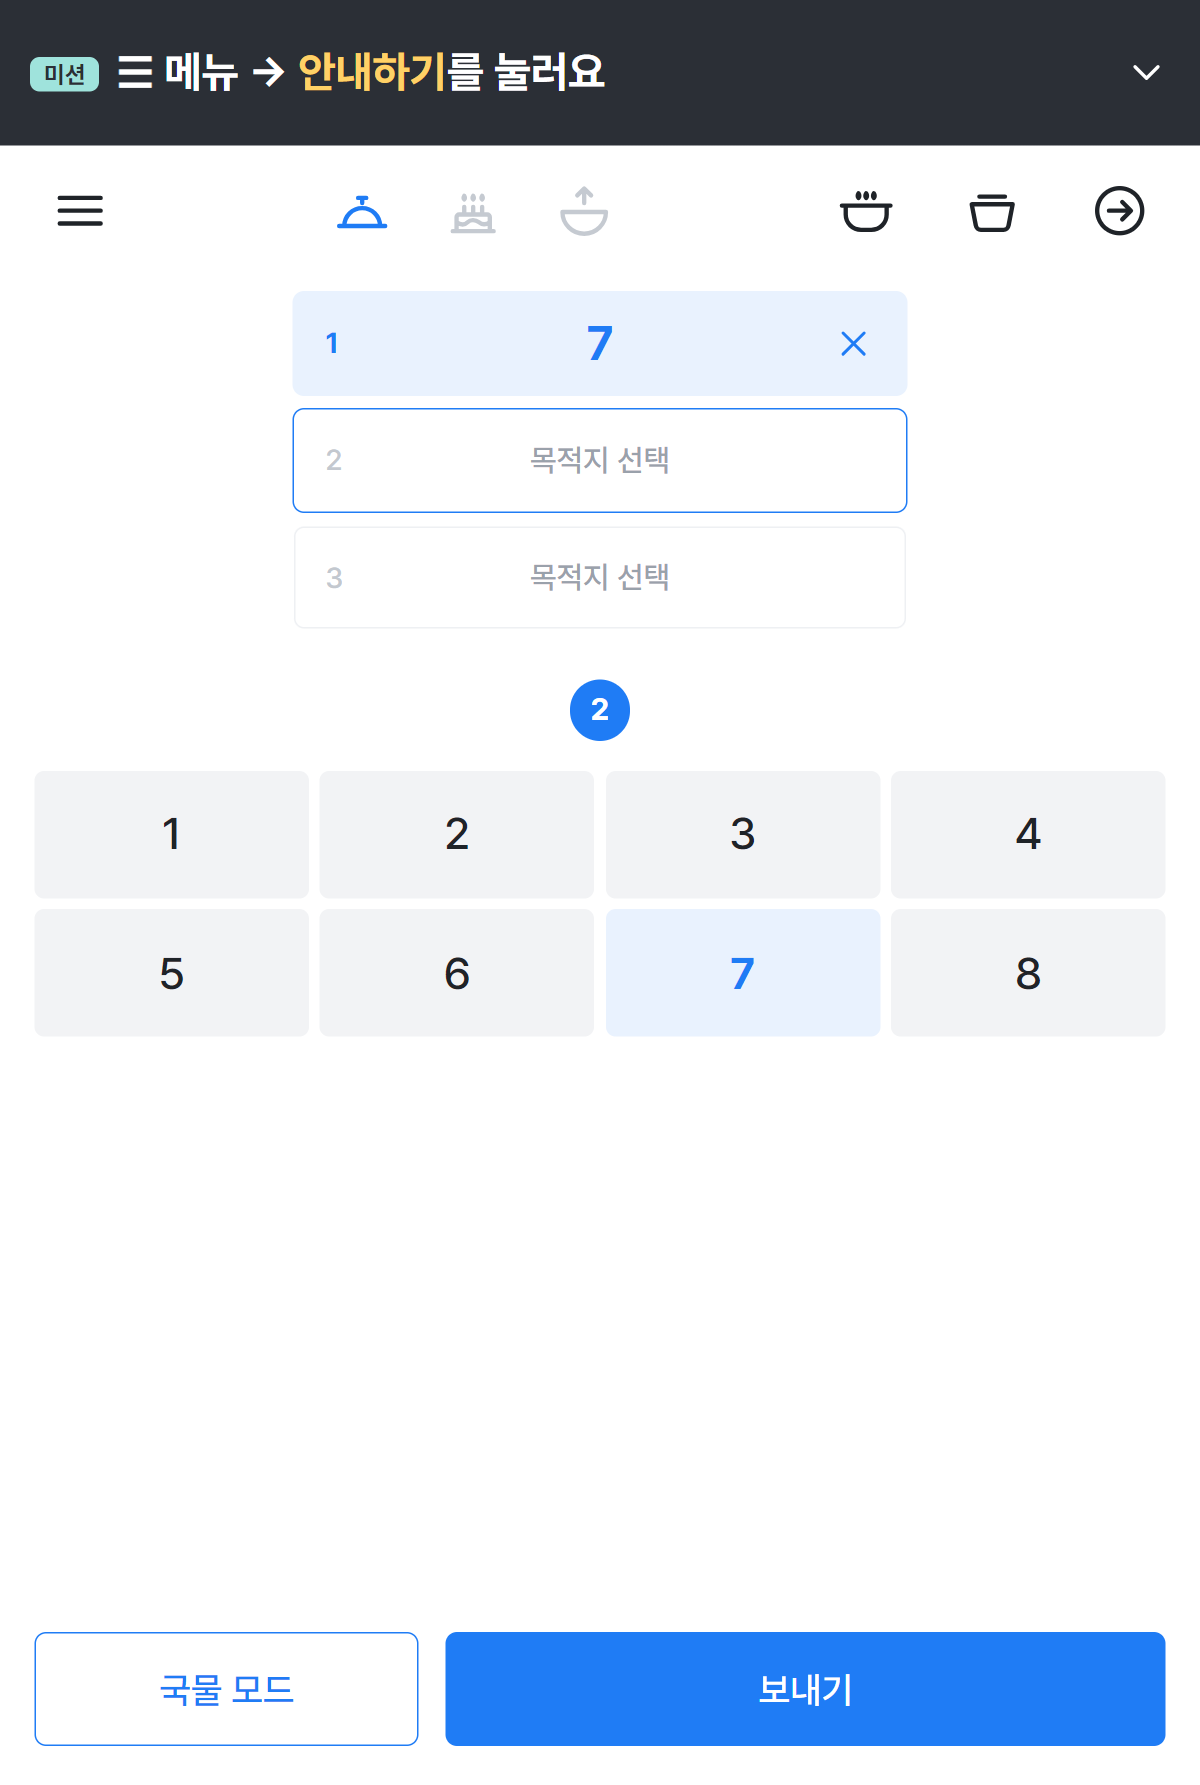
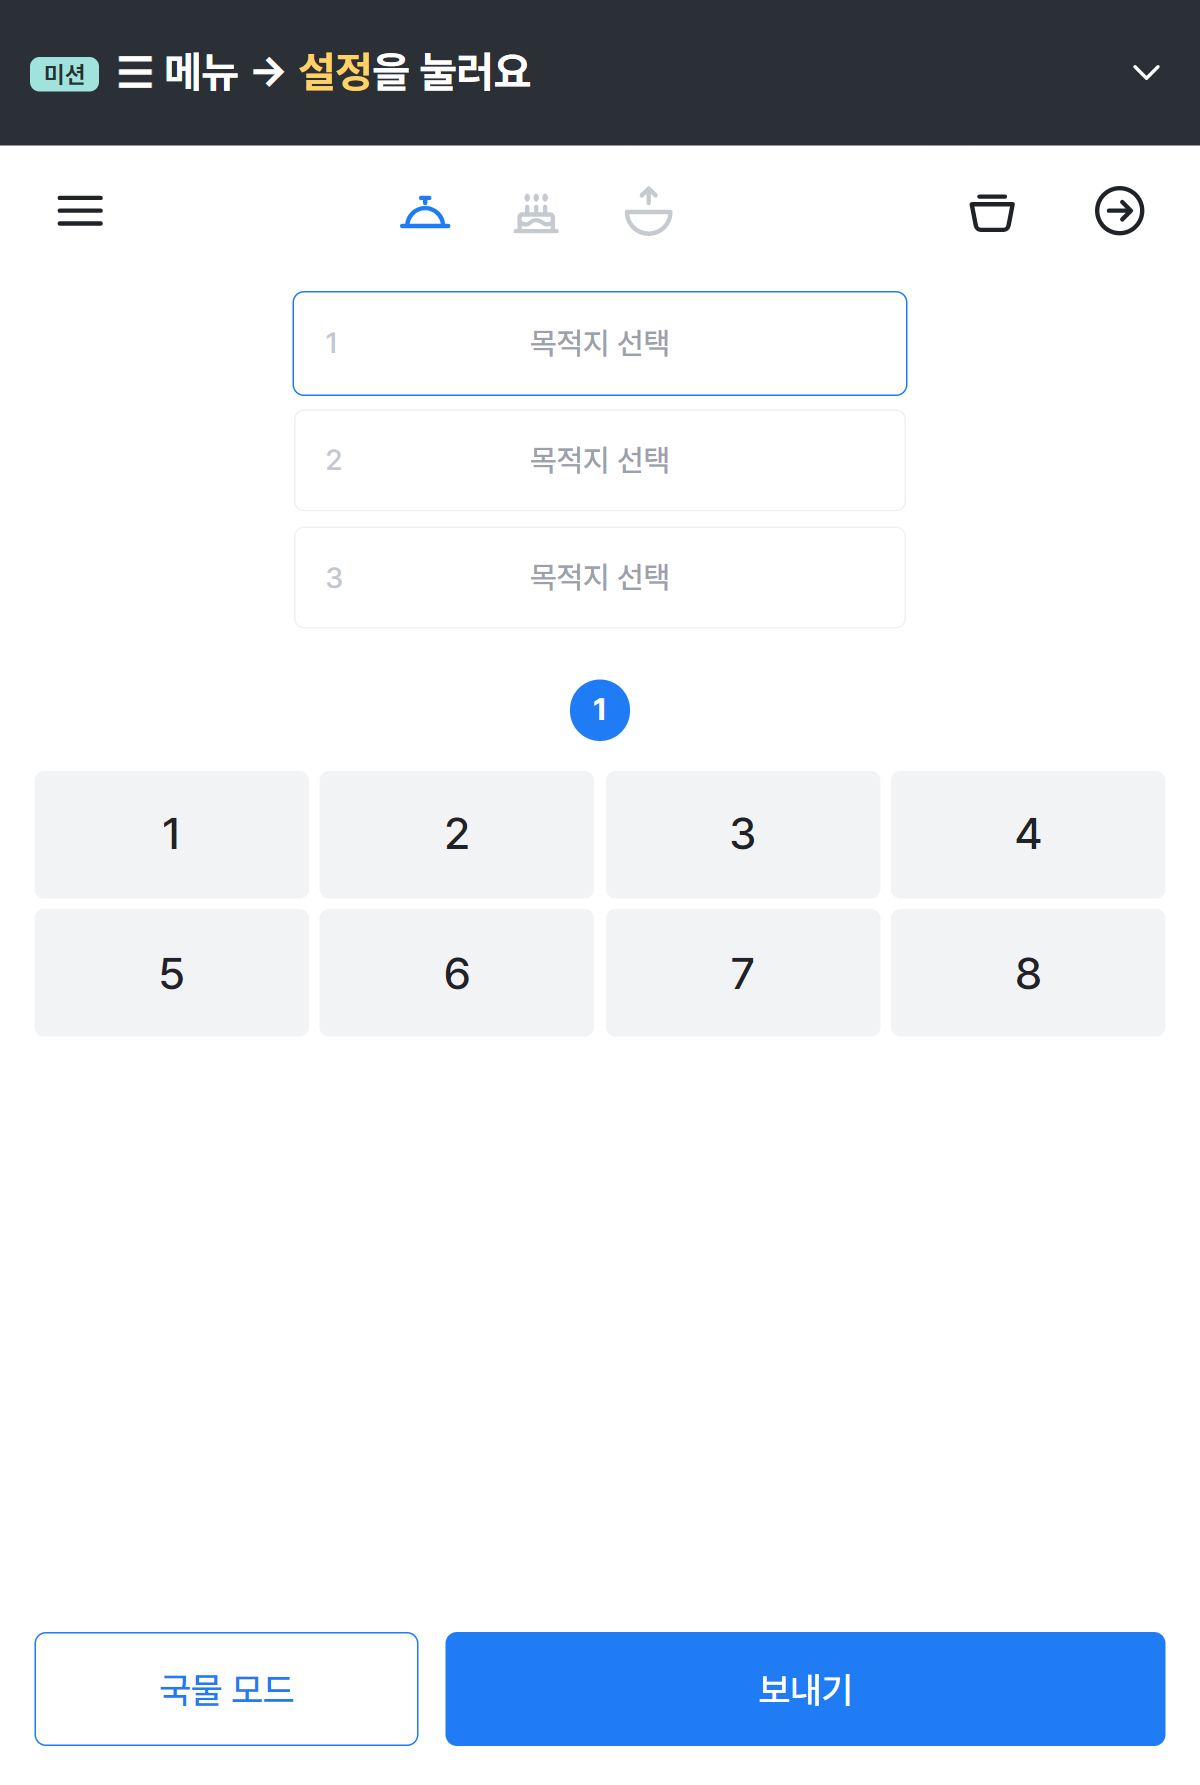
퇴식 단계에 도착 줄 추가 · 슬라이드 6장 태블릿 역할(부모님 미션 / 자녀 조종)

diff --git a/slides/index.html b/slides/index.html
@@ -84,6 +84,13 @@
   .team span { font-size:76px; line-height:1; }
   .team b { font-family:'Hanna','Gowun Dodum',sans-serif; font-weight:normal; font-size:26px; }
   .team i { font-style:normal; font-family:'Hanna','Gowun Dodum',sans-serif; font-size:44px; color:var(--orange); margin-bottom:30px; }
+  .roles { display:flex; align-items:stretch; justify-content:center; gap:14px; margin-top:18px; }
+  .roles > div { display:flex; flex-direction:column; align-items:center; gap:4px; background:#F6F1E7; border-radius:18px; padding:14px 20px; min-width:250px; }
+  .roles > div > span { font-size:46px; line-height:1; }
+  .roles > div > b { font-family:'Hanna','Gowun Dodum',sans-serif; font-weight:normal; font-size:30px; }
+  .roles small { font-size:21px; color:var(--ink-soft); }
+  .roles small b { color:var(--ink); }
+  .roles em { align-self:center; font-style:normal; color:var(--mint-deep); font-weight:800; font-size:34px; }
   .flowchips { display:flex; align-items:center; justify-content:center; gap:10px; margin-top:16px; }
   .flowchips span { font-family:'Hanna','Gowun Dodum',sans-serif; font-size:25px; background:#F6F1E7; border-radius:14px; padding:8px 14px; white-space:nowrap; }
   .flowchips em { font-style:normal; color:var(--mint-deep); font-weight:800; font-size:24px; }
@@ -215,12 +222,12 @@
 </section>
 
 <!-- 5. 오늘의 미션: 한 가족 = 한 테이블, 미션 보고 따라 하기 -->
-<section class="slide" data-note="<b>오늘의 미션 한 줄 요약:</b> “<b>한 가족이 한 테이블을 맡아서</b>, 로봇 1대로 손님 한 팀을 끝까지 모셔요!” 강사님이 태블릿마다 가족 번호를 정해 주면 담당 테이블이 정해지고, 번호는 앱이 알아서 넣어 줘요. 어떻게 하는지 외울 필요 없어요 → <b>앱 맨 위 빨간 네모 칸(미션)을 보고 그대로 따라 하면 돼요.</b> 해내면 「띵」 하고 다음 미션이 나와요. 막히면 미션 칸을 눌러 전체 순서를 봐요. 자세한 4단계는 다음 장에서!">
+<section class="slide" data-note="<b>오늘의 미션 한 줄 요약:</b> “<b>한 가족이 한 테이블을 맡아서</b>, 로봇 1대로 우리 테이블 손님을 모셔요!” <b>태블릿은 가족마다 2대</b>예요. <b>부모님</b>은 서빙로봇 앱 화면의 미션을 읽어 주고, <b>자녀</b>는 카미봇리모콘으로 로봇을 조종해요. 강사님이 태블릿마다 가족 번호를 정해 주면 담당 테이블이 정해지고, 번호는 앱이 알아서 넣어 줘요. 어떻게 하는지 외울 필요 없어요 → <b>앱 맨 위 빨간 네모 칸(미션)을 보고 그대로 따라 하면 돼요.</b> 해내면 「띵」 하고 다음 미션이 나와요. 막히면 미션 칸을 눌러 전체 순서를 봐요. 자세한 4단계는 다음 장에서!">
   <img class="bg" src="PPT배경템플릿_6종/07_좌우큰칸형.png" alt="">
   <div class="abs" style="left:4%; top:5%; width:90%; display:flex; align-items:center; gap:18px;">
     <span class="tag orange in">오늘의 미션</span><div class="h2 split in">미션을 보고, 따라 해요! 📱</div>
   </div>
-  <div class="abs in" style="left:7%; top:20%; width:24%;"><div class="phone"><img style="height:auto;" src="앱_화면/1_서빙화면_미션띠.png" alt="서빙 화면"><span class="redbox f" data-f="2"></span></div></div>
+  <div class="abs in" style="left:7%; top:20%; width:24%;"><div class="phone"><img style="height:auto;" src="앱_화면/1_서빙화면_미션띠.png?v=1024" alt="서빙 화면"><span class="redbox f" data-f="2"></span></div></div>
   <div class="abs f" data-f="2" style="left:31.6%; top:21.2%;"><span class="mission-call">◀ 미션!</span></div>
   <div class="abs f" data-f="3" style="left:31.8%; top:31%; width:13%; font-size:21px; line-height:1.5; color:var(--ink-soft);">여기에 지금 할 일이<br><b style="color:#E53935;">한 줄씩</b> 나와요</div>
   <div class="abs center" style="left:48%; top:20%; width:47.6%; height:62%; display:flex; flex-direction:column; align-items:center; justify-content:center; gap:22px;">
@@ -231,12 +238,11 @@
         <div><span>🍽</span><b>테이블 1개</b></div>
       </div>
       <div class="h2" style="font-size:44px; margin-top:14px;">한 가족이 <span class="accent">한 테이블</span>을 맡아요</div>
-      <div class="lead" style="font-size:25px; margin-top:4px;">손님 한 팀을 로봇으로 끝까지 모셔요</div>
     </div>
     <div class="f" data-f="2" style="width:92%; border-top:3px dashed #EFE3CC;"></div>
     <div class="f" data-f="3">
       <div class="h2" style="font-size:44px;"><span style="color:#E53935;">미션</span>을 보고 → <span class="mint">따라 하기!</span></div>
-      <div class="flowchips"><span>👀 미션 읽기</span><em>→</em><span>🤖 로봇 움직이기</span><em>→</em><span>✅ 띵! 다음 미션</span></div>
+      <div class="roles"><div><span>👩🦰📱</span><b>부모님 태블릿</b><small>서빙로봇 앱 · <b>미션을 읽어 줘요</b></small></div><em>→</em><div><span>🧒🎮</span><b>자녀 태블릿</b><small>카미봇리모콘 · <b>로봇을 조종해요</b></small></div></div>
     </div>
   </div>
 </section>

diff --git a/index.html b/index.html
@@ -1736,8 +1736,10 @@ function bizLines(id, P){
     {t:'☰ 메뉴 → <b>서빙하기</b>를 눌러요', ok:()=>current==='home'||ct()},
     {t:'위쪽 <b>🥣 그릇 회수</b> 아이콘을 눌러요', ok:()=>kind==='collect'||ct()},
     {t:`「<b>보내기</b>」 → <b>${T}번 테이블</b>로 이동`, ok:()=>ct()},
-    {t:'테이블에서 그릇을 싣고 「<b>로봇 보내기</b>」', ok:()=>ct() && (trip.i>=1||ret())},
-    {t:'식기 반납대에서 그릇을 내리고 「<b>로봇 보내기</b>」', ok:()=>ct() && ret()},
+    {t:`${T}번 테이블에 닿으면 「<b>도착했어요</b>」`, ok:()=>ct() && (current==='arrive'||trip.i>=1||ret())},
+    {t:'그릇을 싣고 「<b>로봇 보내기</b>」 → 식기 반납대로 이동', ok:()=>ct() && (trip.i>=1||ret())},
+    {t:'식기 반납대에 닿으면 「<b>도착했어요</b>」', ok:()=>ct() && ((trip.i>=1 && current==='arrive')||ret())},
+    {t:'그릇을 내리고 「<b>로봇 보내기</b>」', ok:()=>ct() && ret()},
     {t:`${waitPlace()}에 오면 「<b>도착했어요</b>」`} ]; }
   return [
     {t:'🔔 손님 <b>리뷰</b>가 들어올 때까지 대기 장소에서 기다려요', ok:()=>((BZ.mk||{}).review||0)>stageStart('event')},
